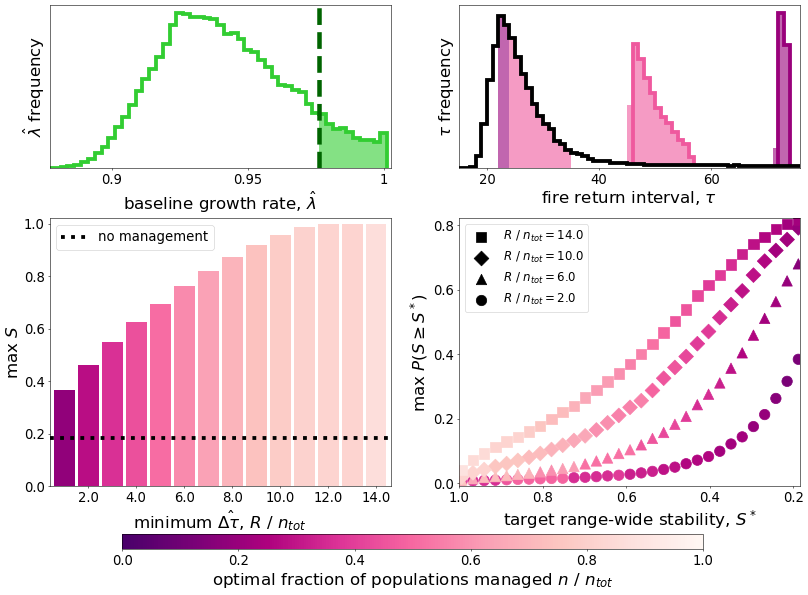
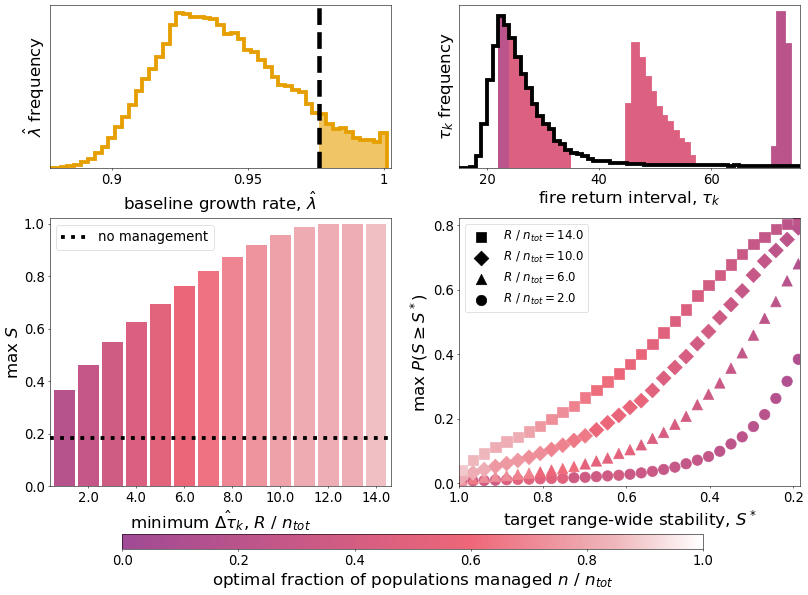
New color scheme; update figure notation

diff --git a/sensitivity/make_figures.py b/sensitivity/make_figures.py
@@ -28,6 +28,7 @@ histlw = 5.5
 cbar_lpad = 30
 dpi = 50
 #dpi = 200
+custom_colors = ['lightgrey', '#e69f00', '#ee6778', '#a04a95'] #pop
 
 # Define constants for a Phase instance to collect existing data
 constants = {}
@@ -88,7 +89,7 @@ cbar_ticks = cbar.get_ticks()
 cbar.set_ticks(cbar_ticks)
 cbar_ticklabels = [rf'$\leq${cbar_ticks[0]}'] + [t for t in cbar_ticks[1:-1]] + [rf'$\geq${cbar_ticks[-1]}']
 cbar.set_ticklabels(cbar_ticklabels)
-cbar.set_label(r'baseline fire return interval, $\hat{\tau}$', color='white', rotation=-90, labelpad=cbar_lpad)
+cbar.set_label(r'baseline fire return interval, $\hat{\tau}_k$', color='white', rotation=-90, labelpad=cbar_lpad)
 cbar.ax.tick_params(labelcolor='white', color='white')
 ax1.set_xticks([])
 ax1.set_yticks([])
@@ -118,7 +119,13 @@ metric_max = np.quantile(metric_interp_all, 0.99)
 metric_edges = np.linspace(metric_min, metric_max*1.015, 60)
 
 # Use hist2d to plot
-cmap = copy.copy(cm.YlGn)
+clrs = ['white', 
+        '#edd09b', #this is 50% opacity
+        custom_colors[1]]
+nodes = [0.0, 0.6, 1.0]
+cmap = colors.LinearSegmentedColormap.from_list(
+    "white_to_target", list(zip(nodes, clrs))
+)
 norm = colors.LogNorm(vmin=1, vmax=pproc.num_demographic_samples)
 cmap.set_bad('white')
 im = ax3.hist2d(tau_plot_all, metric_interp_all, bins=[tau_edges, metric_edges],
@@ -142,19 +149,19 @@ tau_samples = np.arange(0, 140, 2)
 ax3.plot(tau_samples, metric_spl(tau_samples), color='k')
 
 # Labels etc
-cbar.set_label(rf'$P(\lambda|\tau)$', rotation=-90, labelpad=cbar_lpad)
-ax3.set_ylabel(rf'growth rate, $\lambda(\tau)$')
-ax3.plot([], [], color='k', label=r'baseline: $\hat{\lambda}(\tau)$')
+cbar.set_label(rf'$P(\lambda|\tau_k)$', rotation=-90, labelpad=cbar_lpad)
+ax3.set_ylabel(rf'growth rate, $\lambda(\tau_k)$')
+ax3.plot([], [], color='k', label=r'baseline: $\hat{\lambda}(\tau_k)$')
 ax3.legend(bbox_to_anchor=(0.2, -0.05, 0.5, 0.5), fontsize=24)
 ax3.set_ylim(metric_edges[np.nonzero(im[0][min_edge_i])[0].min()], max(metric_edges))
 ax3.set_xlim(tau_edges[min_edge_i], max(tau_edges))
-ax3.set_xlabel(r'fire return interval, $\tau$')
+ax3.set_xlabel(r'fire return interval, $\tau_k$')
 
 #### INITIAL TAU DISTRIBUTION ####
 tau_edges = np.arange(0, int(max(tau_edges)+0.5)+1, 1)
 ax2.hist(pproc.tau_flat, bins=tau_edges, color='black', histtype='step', lw=histlw, density=True);
 ax2.set_yticks([])
-ax2.set_ylabel(r"$\hat{\tau}$ frequency")
+ax2.set_ylabel(r"$\hat{\tau}_k$ frequency")
 ax2.set_xticks([])
 # Use the boundaries of the P(S) imshow plot for the tau limits
 ax2.set_xlim(ax3.get_xlim())
@@ -182,7 +189,8 @@ gs.update(hspace=0.4)
 
 #### VIZ OF METAPOP METRIC ####
 tau_max = max(tau_edges)
-color = 'limegreen'
+#color = 'limegreen'
+color = custom_colors[1]
 metric_spl = pproc.metric_spl_all[0]
 metric_interp = metric_spl(pproc.tau_flat[pproc.tau_flat < tau_max])
 bin_step = 0.0025
@@ -197,7 +205,7 @@ axes[0,0].hist(metric_interp[metric_interp >= bin_edges[bin_i]],
                bins=bin_edges, color=color,
                histtype='bar', alpha=0.6);
 closest_bin_i = np.argmin(np.abs(metric_thresh - bin_edges))
-axes[0,0].axvline(bin_edges[closest_bin_i], ls='--', color='darkgreen', lw=6.5)
+axes[0,0].axvline(bin_edges[closest_bin_i], ls='--', color='k', lw=6.5)
 # Labels
 axes[0,0].set_yticks([])
 axes[0,0].set_ylabel(rf"$\hat{{\lambda}}$ frequency")
@@ -215,7 +223,14 @@ C = pproc.C_vec[C_i]
 
 vmin = 0; vmax = 1
 norm = colors.Normalize(vmin=vmin, vmax=vmax)
-colormap = copy.copy(cm.RdPu_r)
+clrs = [custom_colors[3], 
+        custom_colors[2],
+        '#EEB7BC', #pink 50% opacity
+        'white']
+nodes = [0.0, 0.6, 0.85, 1.0]
+colormap = colors.LinearSegmentedColormap.from_list(
+    "white_to_target", list(zip(nodes, clrs))
+)
 bins = 50
 density = False
 alpha = 1
@@ -230,7 +245,7 @@ for tau_i, tau_f in zip(tau_i_samples, tau_f_samples):
     mask[pproc.tau_argsort_ref[sl:sl+ncell]] = False
 
     axes[0,1].hist(pproc.tau_flat[(pproc.tau_flat >= tau_edges[bin_i]) & (pproc.tau_flat < tau_edges[bin_f])],
-                   bins=tau_edges, color=color, alpha=alpha*0.6, density=density);
+                   bins=tau_edges, color=color, alpha=alpha, density=density);
 
     tau_slice = pproc.tau_flat[pproc.tau_argsort_ref][sl:sl+ncell]
     tau_current = pproc.tau_flat.copy()
@@ -241,12 +256,21 @@ for tau_i, tau_f in zip(tau_i_samples, tau_f_samples):
     if tau_i == min(tau_i_samples):
         xmax = max(current_future_slice)+2
     post_shift = np.concatenate((tau_slice+tauc, current_future_slice))
-    axes[0,1].hist(post_shift, bins=tau_edges, color=color, alpha=alpha*0.6,
-            density=density, histtype='stepfilled');
     # Find where post shift hist is nonzero
     post_bin_i = np.argmin(np.abs(tau_edges - min(post_shift)))
-    axes[0,1].hist(post_shift, bins=tau_edges[post_bin_i:], color=color, alpha=alpha*1,
-            density=density, histtype='step', linewidth=histlw, zorder=-1);
+    # Mask zero counts in shifted distributions
+    counts, edges = np.histogram(post_shift, bins=tau_edges, density=density)
+    nonzero = counts > 0
+    axes[0,1].hist(
+        post_shift,
+        bins=tau_edges[:-1][nonzero].tolist() + [tau_edges[1:][nonzero][-1]],
+        color=color,
+        edgecolor=color,     # solid outline in same color
+        alpha=alpha,
+        linewidth=histlw,
+        density=density,
+        histtype='stepfilled',
+    )
 
     tau_shifted = pproc.tau_flat.copy()
     tau_shifted[pproc.tau_argsort_ref[sl:sl+ncell]] += tauc
@@ -257,9 +281,9 @@ axes[0,1].hist(tau_shifted[mask,...], bins=tau_edges, color='white', density=den
 axes[0,1].hist(tau_current, bins=tau_edges, color='black', histtype='step', lw=histlw, density=density);
 
 axes[0,1].set_yticks([])
-axes[0,1].set_ylabel(r"$\tau$ frequency")
+axes[0,1].set_ylabel(r"$\tau_k$ frequency")
 axes[0,1].set_xticks(np.arange(20,100,20).astype(int))
-axes[0,1].set_xlabel(r"fire return interval, $\tau$")
+axes[0,1].set_xlabel(r"fire return interval, $\tau_k$")
 axes[0,1].set_xlim(15, xmax);
 
 #### RESULTS UNDER ZERO UNCERTAINTY ####
@@ -281,7 +305,6 @@ c_vec = c_vec / pproc.ncell_tot
 width = 0.875
 vmin = 0; vmax = 1
 norm = colors.Normalize(vmin=vmin, vmax=vmax)
-colormap = copy.copy(cm.RdPu_r)
 sm = cm.ScalarMappable(cmap=colormap, norm=norm)
 bar_colors = colormap(norm(c_vec))
 bar = axes[1,0].bar(np.arange(pproc.C_vec.size), plot_vec, color=bar_colors, width=width)
@@ -297,7 +320,7 @@ else:
     xticks = np.arange(0, len(pproc.C_vec), xtick_spacing)
     xtick_labels = np.round((pproc.C_vec/(pproc.ncell_tot))[0::xtick_spacing], 1)
 axes[1,0].set_xticks(xticks, labels=xtick_labels);
-axes[1,0].set_xlabel(r"minimum $\hat{\Delta\tau}$, $R~/~n_{tot}$")
+axes[1,0].set_xlabel(r"minimum $\hat{\Delta\tau}_k$, $R~/~n_{tot}$")
 axes[1,0].set_xlim(-(width/2)*1.4, len(pproc.C_vec)-1+((width/2)*1.4))
 # Plot baseline value
 axes[1,0].axhline(meta_metric_nochange, ls=':', label=f'no management', c='k')
@@ -315,7 +338,6 @@ maxrob = np.load(pproc.data_dir + "/maxrob.npy")
 argmaxrob = np.load(pproc.data_dir + "/argmaxrob.npy")
 Sstar_vec = np.load(pproc.data_dir + "/Sstar_vec.npy")
 
-colormap = copy.copy(cm.RdPu_r)
 vmax = 1; vmin = 0
 normalize = colors.Normalize(vmin=vmin, vmax=vmax)
 all_markers = ['o','^','D','s','H','*']
@@ -367,7 +389,14 @@ ylens = np.array([2.25/3, 0.2, 0.55, 1])  # top, legend row, mid, bottom
 scale = 5
 xlens *= scale; ylens *= scale
 figsize = np.array([np.sum(xlens), np.sum(ylens)])
-custom_colors = ['lightgrey', 'coral', 'orchid', 'blueviolet']
+#custom_colors = ['lightgrey', 'coral', 'orchid', 'blueviolet']
+#custom_colors = ['lightgrey', '#CCBB44', '#EE6778', '#AA3377'] #paul tol bright
+#custom_colors = ['lightgrey', '#FFB00D', '#FF5F00', '#DD227D'] #ibm
+#custom_colors = ['lightgrey', '#5B8EFD', '#725DEF', '#DD227D'] #ibm 2
+#custom_colors = ['lightgrey', '#D55E00', '#009E37', '#AA3377'] #ito 
+#custom_colors = ['lightgrey', '#E69F00', '#5CA89A', '#C36a77'] #ito 2
+#custom_colors = ['lightgrey', '#e69f00', '#ee6778', '#a04a95'] #pop
+#custom_colors = ['lightgrey', '#ff5f00', '#dd227d', '#725def'] #pop2
 
 # Define subplot mosaic
 fig, axd = plt.subplot_mosaic(
@@ -406,7 +435,10 @@ for key, label in labels.items():
     x_pos = ylab_bbox_fig.x0 + 0.05 # small gap
 
     # Vertical position: slightly above plot box
-    y_pos = bbox.y1 - 0.01
+    #if key in ['d', 'e']:
+    #    y_pos = bbox.y1 - 0.4
+    #else:
+    y_pos = bbox.y1 + 0.005
 
     fig.text(
         x_pos,
@@ -421,7 +453,8 @@ for key, label in labels.items():
 axd['legend'].axis('off')
 
 # Make legend handles
-custom_colors_forlegend = ['coral', 'blueviolet', 'orchid', 'lightgrey']
+#custom_colors_forlegend = ['coral', 'blueviolet', 'orchid', 'lightgrey']
+custom_colors_forlegend = np.array(custom_colors)[[1,3,2,0]]
 legend_labels = ['baseline only', 'uncertain only', 'both', 'neither']
 handles = [Patch(facecolor=c, edgecolor='black', label=l)
            for c, l in zip(custom_colors_forlegend, legend_labels)]
@@ -479,7 +512,7 @@ q_lim = 0.51
 q_mask = q_vec <= q_lim
 
 # Get the points where before and after crossing baseline and color them differently
-alpha = 0.6
+alpha = 0.85#0.6
 
 # First handle lower bound of optimal tau slice
 lte_baseline_q = q_vec[delta_taul_interp[q_mask & (delta_taul_interp <= 0)].argmax() + 1]
@@ -532,7 +565,7 @@ axd['top'].fill_between( # Now handle greater than baseline
 
 axd['top'].set_xlabel(r'% decrease from baseline $\text{max}(S)$ to target outcome, $S^*$')
 axd['top'].set_xlim(-1, 50)
-axd['top'].set_ylabel(r'optimal $\hat{\tau}$')
+axd['top'].set_ylabel(r'optimal $\hat{\tau}_k$')
 axd['top'].legend()
 
 # Define reference indices for per population tau
@@ -593,8 +626,8 @@ for i, q in enumerate(q_samples):
         label=[labels[i] for i in range(len(custom_colors))]
     )
 
-    axd[ax_label].set_xlabel(r'$\tau$')
-    axd[ax_label].set_ylabel(r'$\hat{\tau}$ frequency')
+    axd[ax_label].set_xlabel(r'$\hat{\tau}_k$')
+    axd[ax_label].set_ylabel(r'$\hat{\tau}_k$ frequency')
     axd[ax_label].set_yticks([])
 
     ### GEOGRAPHICAL MAP ###
